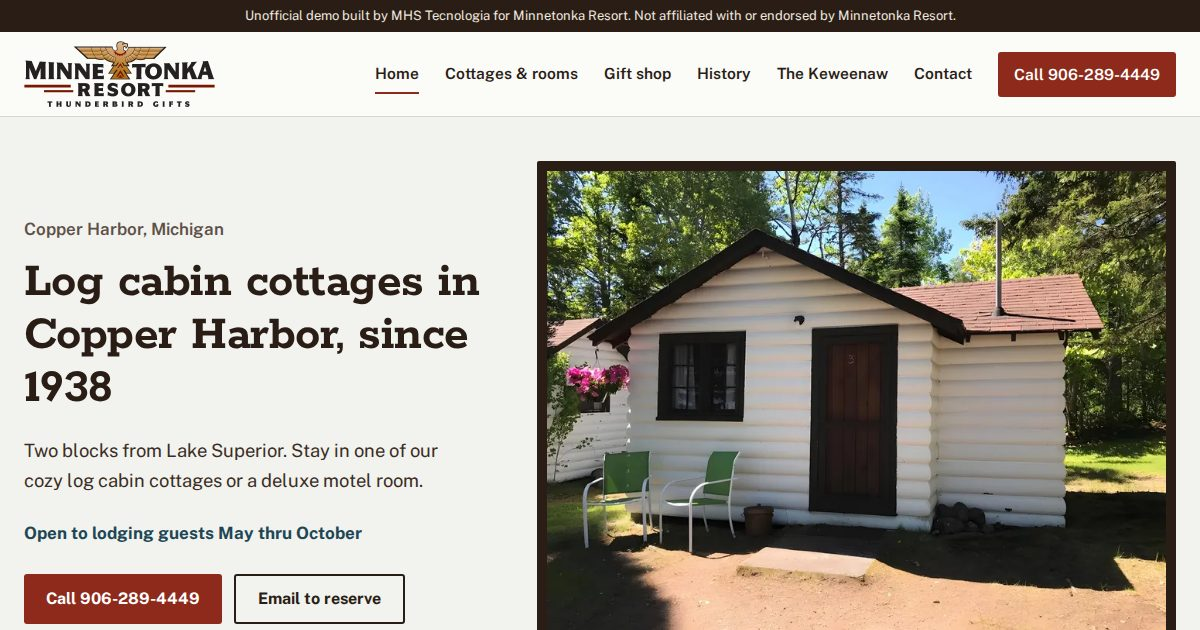
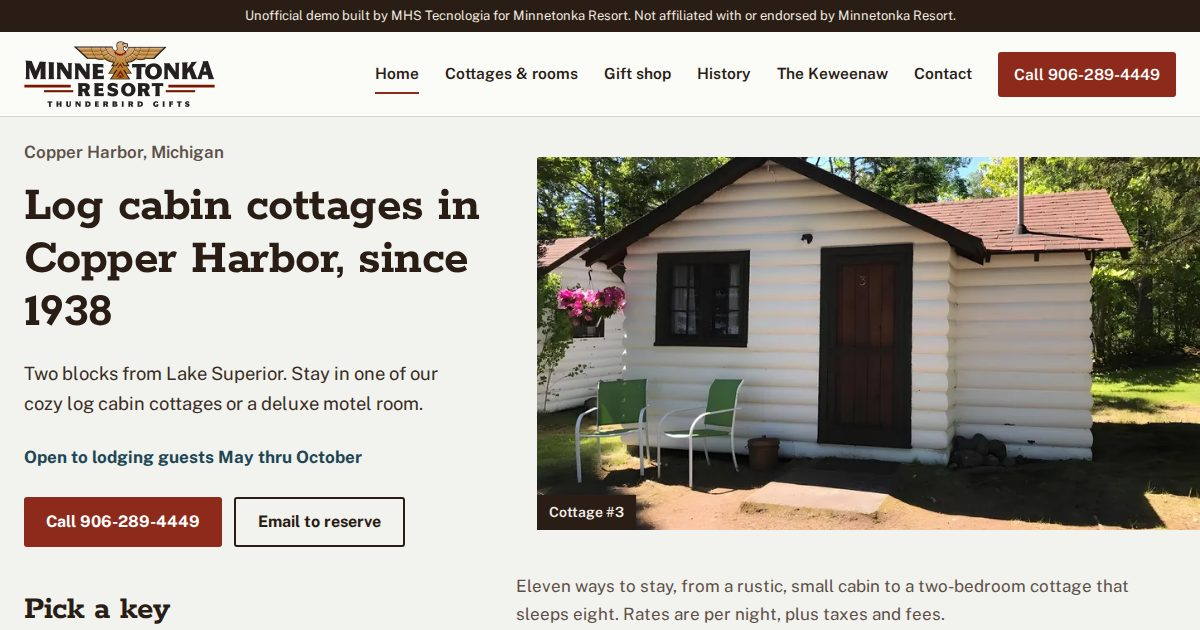
Previews: 142 ativos

diff --git a/minnetonka-resort-copper-harbor-mi/stay.html b/minnetonka-resort-copper-harbor-mi/stay.html
@@ -70,14 +70,14 @@
    <p class="rate">Starting at $125 per night<small>Plus taxes and fees</small></p>
   </div>
   <div class="gal"><figure class="shot"><img src="img/c3-0-1000.webp" srcset="img/c3-0-600.webp 600w, img/c3-0-1000.webp 1000w" sizes="(min-width: 1101px) 520px, (min-width: 960px) 420px, calc(100vw - 32px)" width="1000" height="750" alt="Cottage #3 with flower basket and two green chairs" loading="lazy" decoding="async"></figure><button class="more" type="button" data-open="al-c3">See all 4 photos</button><dialog class="album" id="al-c3" aria-label="Cottage #3 photos"><div class="bar"><h3>Cottage #3</h3><button class="close" type="button">Close</button></div><div class="pics"><img src="img/c3-0-1000.webp" srcset="img/c3-0-600.webp 600w, img/c3-0-1000.webp 1000w" sizes="min(980px, 90vw)" width="1000" height="750" alt="Cottage #3 with flower basket and two green chairs" loading="lazy" decoding="async"><img src="img/c3-1-1000.webp" srcset="img/c3-1-1000.webp 1000w" sizes="min(980px, 90vw)" width="1000" height="750" alt="Cottage #3 double bed with TV and mini fridge" loading="lazy" decoding="async"><img src="img/c3-2-1000.webp" srcset="img/c3-2-1000.webp 1000w" sizes="min(980px, 90vw)" width="1000" height="750" alt="Cottage #3 room with microwave and window" loading="lazy" decoding="async"><img src="img/c3-3-1000.webp" srcset="img/c3-3-1000.webp 1000w" sizes="min(980px, 90vw)" width="1000" height="750" alt="Cottage #3 bed and chair" loading="lazy" decoding="async"></div></dialog></div>
- </article><article class="unit" id="c4">
+ </article><article class="unit np" id="c4">
   <div class="tag"><span class="fob" aria-hidden="true"><span class="ring" aria-hidden="true"></span><span class="hole" aria-hidden="true"></span><span class="kind">Cottage</span> <span class="no">4</span></span></div>
   <div>
    <h2>Cottage #4</h2><p class="sub">Sleeps up to 4 guests.</p>
    <ul><li>2 double beds with bathroom &amp; shower</li><li>Living/dining area with a kitchenette</li></ul>
    <p class="rate">Starting at $155 per night<small>Plus taxes and fees</small></p><p class="notes">Rates based on two person occupancy. Add $10.00 each additional person/night.</p>
   </div>
-  <p class="nophoto">No full-size photos of this one on the resort's site yet. Call and we'll describe it.</p>
+  <div class="keypanel" aria-hidden="true"><div class="peg"></div><span class="fob" aria-hidden="true"><span class="ring" aria-hidden="true"></span><span class="hole" aria-hidden="true"></span><span class="kind">Cottage</span> <span class="no">4</span></span><p><b>Sleeps 4</b><span>from $155</span><small>a night</small></p></div>
  </article><article class="unit" id="c567">
   <div class="tag"><span class="fob" aria-hidden="true"><span class="ring" aria-hidden="true"></span><span class="hole" aria-hidden="true"></span><span class="kind">Cottage</span> <span class="no sm">5–7</span></span></div>
   <div>
@@ -86,22 +86,22 @@
    <p class="rate">Starting at $165 per night<small>Plus taxes and fees</small></p>
   </div>
   <div class="gal"><figure class="shot"><img src="img/c567-0-1000.webp" srcset="img/c567-0-600.webp 600w, img/c567-0-1000.webp 1000w" sizes="(min-width: 1101px) 520px, (min-width: 960px) 420px, calc(100vw - 32px)" width="1000" height="750" alt="Cottage #5, #6 or #7, bedroom with two double beds under quilts" loading="lazy" decoding="async"></figure><button class="more" type="button" data-open="al-c567">See all 8 photos</button><dialog class="album" id="al-c567" aria-label="Cottage #5, #6 or #7 photos"><div class="bar"><h3>Cottage #5, #6 or #7</h3><button class="close" type="button">Close</button></div><div class="pics"><img src="img/c567-0-1000.webp" srcset="img/c567-0-600.webp 600w, img/c567-0-1000.webp 1000w" sizes="min(980px, 90vw)" width="1000" height="750" alt="Cottage #5, #6 or #7, bedroom with two double beds under quilts" loading="lazy" decoding="async"><img src="img/c567-1-1000.webp" srcset="img/c567-1-1000.webp 1000w" sizes="min(980px, 90vw)" width="1000" height="750" alt="Bedroom with log walls and a TV" loading="lazy" decoding="async"><img src="img/c567-2-1000.webp" srcset="img/c567-2-1000.webp 1000w" sizes="min(980px, 90vw)" width="1000" height="750" alt="Kitchenette with refrigerator, looking into the bedrooms" loading="lazy" decoding="async"><img src="img/c567-3-1000.webp" srcset="img/c567-3-1000.webp 1000w" sizes="min(980px, 90vw)" width="1000" height="1333" alt="Refrigerator and dining table" loading="lazy" decoding="async"><img src="img/c567-4-1000.webp" srcset="img/c567-4-1000.webp 1000w" sizes="min(980px, 90vw)" width="1000" height="1333" alt="Gas range in the kitchenette" loading="lazy" decoding="async"><img src="img/c567-5-1000.webp" srcset="img/c567-5-1000.webp 1000w" sizes="min(980px, 90vw)" width="1000" height="1333" alt="Kitchenette sink and stove" loading="lazy" decoding="async"><img src="img/c567-6-1000.webp" srcset="img/c567-6-1000.webp 1000w" sizes="min(980px, 90vw)" width="1000" height="1333" alt="Double bed in the second bedroom" loading="lazy" decoding="async"><img src="img/c567-7-1000.webp" srcset="img/c567-7-1000.webp 1000w" sizes="min(980px, 90vw)" width="1000" height="1333" alt="Doorway between the rooms" loading="lazy" decoding="async"></div></dialog></div>
- </article><article class="unit" id="c89">
+ </article><article class="unit np" id="c89">
   <div class="tag"><span class="fob" aria-hidden="true"><span class="ring" aria-hidden="true"></span><span class="hole" aria-hidden="true"></span><span class="kind">Cottage</span> <span class="no sm">8–9</span></span></div>
   <div>
    <h2>Cottage #8 or #9</h2>
    <ul><li>Double bed and single bed</li><li>In-room coffee</li><li>Bathroom with shower</li></ul>
    <p class="rate">Starting at $135 per night<small>Plus taxes and fees</small></p><p class="notes">No dogs allowed. Add $10.00 for additional person/night.</p>
   </div>
-  <p class="nophoto">No full-size photos of this one on the resort's site yet. Call and we'll describe it.</p>
- </article><article class="unit" id="c10">
+  <div class="keypanel" aria-hidden="true"><div class="peg"></div><span class="fob" aria-hidden="true"><span class="ring" aria-hidden="true"></span><span class="hole" aria-hidden="true"></span><span class="kind">Cottage</span> <span class="no sm">8–9</span></span><p><b>Double + single bed</b><span>from $135</span><small>a night</small></p></div>
+ </article><article class="unit np" id="c10">
   <div class="tag"><span class="fob" aria-hidden="true"><span class="ring" aria-hidden="true"></span><span class="hole" aria-hidden="true"></span><span class="kind">Cottage</span> <span class="no">10</span></span></div>
   <div>
    <h2>Cottage #10</h2><p class="sub">Sleeps up to 8 guests.</p>
    <ul><li>4 Queen beds in 2 bedrooms with bathroom &amp; shower</li><li>Sofa bed in living area, $10 extra</li><li>Living/dining area with a kitchenette</li><li>Large outside deck</li></ul>
    <p class="rate">Starting at $195 per night<small>Plus taxes and fees</small></p>
   </div>
-  <p class="nophoto">No full-size photos of this one on the resort's site yet. Call and we'll describe it.</p>
+  <div class="keypanel" aria-hidden="true"><div class="peg"></div><span class="fob" aria-hidden="true"><span class="ring" aria-hidden="true"></span><span class="hole" aria-hidden="true"></span><span class="kind">Cottage</span> <span class="no">10</span></span><p><b>Sleeps 8</b><span>from $195</span><small>a night</small></p></div>
  </article><article class="unit" id="c11">
   <div class="tag"><span class="fob" aria-hidden="true"><span class="ring" aria-hidden="true"></span><span class="hole" aria-hidden="true"></span><span class="kind">Cottage</span> <span class="no">11</span></span></div>
   <div>
@@ -159,7 +159,7 @@
   </div>
  </div>
 </footer>
-<div class="dock" id="dock"><a class="btn solid" href="tel:+19062894449">Call 906-289-4449</a><a class="btn line" href="mailto:minnetonkareservations@gmail.com?subject=Reservation%20request&body=Check-in%20date%3A%20%0ANumber%20of%20nights%3A%20%0ACottage%20or%20room%3A%20%0AGuests%3A%20">Email</a></div>
+<div class="dock" id="dock"><a class="btn solid" href="tel:+19062894449" aria-label="Call 906-289-4449">Call</a><a class="btn line" href="mailto:minnetonkareservations@gmail.com?subject=Reservation%20request&body=Check-in%20date%3A%20%0ANumber%20of%20nights%3A%20%0ACottage%20or%20room%3A%20%0AGuests%3A%20">Email</a></div>
 <script>
 (function(){
  var d=document.getElementById('dock'),h=document.querySelector('[data-cta]');

diff --git a/minnetonka-resort-copper-harbor-mi/style.css b/minnetonka-resort-copper-harbor-mi/style.css
@@ -62,8 +62,11 @@ p{margin:0 0 1em;max-width:66ch}
 .btn.line:hover{background:var(--trim);color:#fff}
 
 /* home hero */
-.hero{padding:44px 0 52px}
+.hero{padding:22px 0 26px;overflow-x:clip}
 .hero .wrap{display:grid;grid-template-columns:5fr 7fr;gap:56px;align-items:center}
+.bleed{position:relative;margin:0 calc(-1 * (max(0px, (100vw - 1200px) / 2) + var(--gut))) 0 0}
+.bleed img{width:100%;aspect-ratio:16/9;object-fit:cover;object-position:50% 62%;border-radius:2px 0 0 2px}
+.bleed figcaption{position:absolute;left:0;bottom:0;background:var(--trim);color:#F2EDE6;font-size:.875rem;font-weight:600;padding:6px 12px}
 .hero .where{font-weight:600;color:var(--muted);margin-bottom:14px}
 .hero h1{margin-bottom:20px}
 .hero .lede{font-size:1.15rem;color:#3b2d25}
@@ -73,8 +76,9 @@ p{margin:0 0 1em;max-width:66ch}
 .frame figcaption{color:#E9E1D8;font-size:.875rem;padding:9px 4px 1px}
 
 /* the key rail */
-.keys{padding:8px 0 64px}
-.keys .intro{display:flex;justify-content:space-between;align-items:end;gap:32px;margin-bottom:26px}
+.keys{padding:0 0 64px}
+.keys .intro{display:flex;justify-content:space-between;align-items:end;gap:32px;margin-bottom:16px}
+.keys h2{font-size:2.1rem}
 .keys .intro p{margin:0;color:var(--muted)}
 .rail{list-style:none;margin:0;padding:0;display:grid;grid-template-columns:repeat(11,1fr)}
 .rail li{position:relative;padding-top:54px;text-align:center}
@@ -113,6 +117,7 @@ a.fob:hover::before{background:linear-gradient(155deg,#BF4A33,#9C2F1E 52%,var(--
 .wide figcaption{font-size:.875rem;color:var(--muted);margin-top:8px}
 .wide.full{max-width:none}
 .wide.full img{aspect-ratio:1000/369;object-fit:cover}
+.wide.gc figcaption{margin-top:10px}
 .wide.side{max-width:none;display:grid;grid-template-columns:minmax(0,1000px) 1fr;gap:24px;align-items:end}
 .wide.side figcaption{margin:0}
 .textlink{font-weight:700}
@@ -155,6 +160,18 @@ a.fob:hover::before{background:linear-gradient(155deg,#BF4A33,#9C2F1E 52%,var(--
 .unit .shot img{width:100%;border-radius:2px}
 .more{margin-top:10px;font:inherit;font-weight:700;background:none;border:2px solid var(--trim);color:var(--trim);border-radius:3px;min-height:44px;padding:0 16px;cursor:pointer}
 .more:hover{background:var(--trim);color:#fff}
+.keypanel{position:relative;background:var(--paper);border:1px solid var(--line);padding:0 28px 26px;display:flex;align-items:flex-end;gap:28px;min-height:260px}
+.keypanel::before{content:"";position:absolute;left:0;right:0;top:0;height:34px;background:linear-gradient(180deg,rgba(255,255,255,.18),rgba(0,0,0,0) 40%,rgba(0,0,0,.22)),var(--pine)}
+.keypanel .peg{position:absolute;top:11px;left:82px;width:12px;height:12px;border-radius:50%;background:radial-gradient(circle at 35% 35%,#F3DD9C,var(--brass) 55%,#7d6024);box-shadow:0 2px 2px rgba(0,0,0,.35);z-index:1}
+.keypanel .fob{width:120px;height:188px;padding-top:50px;margin-top:66px;animation:none;transform-origin:50% -36px}
+.keypanel .fob .ring{top:-37px;height:48px}
+.keypanel .fob .no{font-size:3.3rem;height:3.6rem}
+.keypanel .fob .no.sm{font-size:2.1rem}
+.keypanel .fob .kind{font-size:.8125rem}
+.keypanel p{margin:0 0 6px;font-size:1rem;color:var(--muted)}
+.keypanel p b{display:block;font-family:Rokkitt,Georgia,serif;font-size:2rem;line-height:1.1;color:var(--trim)}
+.keypanel p span{display:block;font-family:Rokkitt,Georgia,serif;font-size:1.6rem;font-weight:700;color:var(--bird)}
+.unit.np .tag{visibility:hidden}
 .nophoto{font-size:.9375rem;color:var(--muted);border:1px dashed var(--line);padding:18px;margin:0}
 dialog.album{border:0;padding:0;margin:auto;width:min(1000px,94vw);max-height:92vh;background:var(--trim);color:#fff;border-radius:3px}
 dialog.album::backdrop{background:rgba(20,14,10,.82)}
@@ -214,7 +231,20 @@ dialog.album::backdrop{background:rgba(20,14,10,.82)}
   .menu{display:block}
   .top .wrap{min-height:70px}
   .brand img{width:150px;height:52px}
-  .hero{padding:26px 0 40px}
+  .hero{padding:20px 0 34px}
+  .bleed{margin:0 calc(-1 * var(--gut))}
+  .bleed img{aspect-ratio:780/676;border-radius:0}
+  .demo{font-size:.78rem;letter-spacing:-.005em}
+  .demo p{padding:0 10px}
+  .wide.gc{margin-left:calc(-1 * var(--gut));margin-right:calc(-1 * var(--gut))}
+  .wide.gc img{aspect-ratio:16/10;object-position:62% 50%;border-radius:0}
+  .wide.gc figcaption{padding:0 var(--gut)}
+  .unit.np{grid-template-columns:1fr}
+  .unit.np .tag{display:none}
+  .keypanel{min-height:0;padding:0 18px 20px;gap:20px}
+  .keypanel .peg{left:62px}
+  .keypanel .fob{width:100px;height:158px;padding-top:42px}
+  .keypanel .fob .no{font-size:2.7rem;height:3rem}
   .hero .wrap{grid-template-columns:1fr;gap:22px}
   .hero h1{font-size:2.3rem;margin-bottom:12px}
   .hero .where{margin-bottom:8px;font-size:.95rem}
@@ -224,7 +254,8 @@ dialog.album::backdrop{background:rgba(20,14,10,.82)}
   .frame{padding:6px}
   .keys .intro{display:block}
   .keys .intro p{margin-top:10px}
-  .rail{grid-template-columns:repeat(4,1fr)}
+  .rail{display:flex;overflow-x:auto;scroll-snap-type:x mandatory;margin:0 calc(-1 * var(--gut));padding:0 var(--gut) 8px;scroll-padding:0 var(--gut);scrollbar-width:thin;overscroll-behavior-x:contain}
+  .rail li{flex:0 0 104px;scroll-snap-align:start}
   .rail .info{font-size:.75rem}
   .grounds .cols,.light .wrap,.twocol,.lists,.policies{grid-template-columns:1fr;gap:32px}
   .unit{grid-template-columns:84px 1fr;gap:18px 18px}
@@ -242,13 +273,7 @@ dialog.album::backdrop{background:rgba(20,14,10,.82)}
   body.has-dock{padding-bottom:72px}
   .dock{display:flex;gap:10px;position:fixed;left:0;right:0;bottom:0;z-index:40;padding:10px 16px calc(10px + env(safe-area-inset-bottom));background:rgba(251,251,248,.97);border-top:1px solid var(--line);transform:translateY(110%);transition:transform .25s ease}
   .dock.on{transform:none}
-  .dock .btn{flex:1;min-height:48px}
-}
-@media (max-width:440px){
-  .fob{width:76px;height:120px;padding-top:30px}
-  .fob .no{font-size:2.05rem;height:2.4rem}
-  .fob .no.sm{font-size:1.3rem}
-  .fob .kind{font-size:.625rem}
+  .dock .btn{flex:1;min-height:48px;white-space:nowrap;padding:0 12px}
 }
 @media (prefers-reduced-motion:reduce){
   .dock{transition:none}

diff --git a/minnetonka-resort-copper-harbor-mi/index.html b/minnetonka-resort-copper-harbor-mi/index.html
@@ -11,8 +11,8 @@
 <link rel="apple-touch-icon" href="apple-touch-icon.png">
 <link rel="preload" href="fonts/rokkitt.woff2" as="font" type="font/woff2" crossorigin>
 <link rel="preload" href="fonts/publicsans.woff2" as="font" type="font/woff2" crossorigin>
-<link rel="preload" as="image" type="image/webp" media="(max-width: 959px)" imagesrcset="img/hero-m-440.webp 440w, img/hero-m-780.webp 780w" imagesizes="calc(100vw - 44px)">
-<link rel="preload" as="image" type="image/webp" media="(min-width: 960px)" imagesrcset="img/hero-800.webp 800w, img/hero-1200.webp 1200w, img/hero-1600.webp 1600w" imagesizes="(min-width: 1248px) 619px, calc((100vw - 104px) * 7 / 12 - 20px)">
+<link rel="preload" as="image" type="image/webp" media="(max-width: 959px)" imagesrcset="img/hero-m-440.webp 440w, img/hero-m-780.webp 780w" imagesizes="100vw">
+<link rel="preload" as="image" type="image/webp" media="(min-width: 960px)" imagesrcset="img/hero-800.webp 800w, img/hero-1200.webp 1200w, img/hero-1600.webp 1600w" imagesizes="(min-width: 1248px) calc(663px + (100vw - 1200px) / 2), (min-width: 960px) calc((100vw - 104px) * 7 / 12 + 24px), 100vw">
 <link rel="stylesheet" href="style.css">
 <meta property="og:type" content="website">
 <meta property="og:title" content="Minnetonka Resort | Log cabin cottages in Copper Harbor, Michigan">
@@ -46,7 +46,7 @@
    <span class="season">Open to lodging guests May thru October</span>
    <div class="btns" data-cta><a class="btn solid" href="tel:+19062894449">Call 906-289-4449</a><a class="btn line" href="mailto:minnetonkareservations@gmail.com?subject=Reservation%20request&body=Check-in%20date%3A%20%0ANumber%20of%20nights%3A%20%0ACottage%20or%20room%3A%20%0AGuests%3A%20">Email to reserve</a></div>
   </div>
-  <figure class="frame"><picture><source media="(max-width: 959px)" srcset="img/hero-m-440.webp 440w, img/hero-m-780.webp 780w" sizes="calc(100vw - 44px)" width="780" height="676"><img src="img/hero-1600.webp" srcset="img/hero-800.webp 800w, img/hero-1200.webp 1200w, img/hero-1600.webp 1600w" sizes="(min-width: 1248px) 619px, calc((100vw - 104px) * 7 / 12 - 20px)" width="1600" height="1200" alt="Cottage #3: white log walls, dark trim, the number 3 on the door, two green chairs out front" fetchpriority="high"></picture><figcaption>Cottage #3</figcaption></figure>
+  <figure class="bleed"><picture><source media="(max-width: 959px)" srcset="img/hero-m-440.webp 440w, img/hero-m-780.webp 780w" sizes="100vw" width="780" height="676"><img src="img/hero-1600.webp" srcset="img/hero-800.webp 800w, img/hero-1200.webp 1200w, img/hero-1600.webp 1600w" sizes="(min-width: 1248px) calc(663px + (100vw - 1200px) / 2), (min-width: 960px) calc((100vw - 104px) * 7 / 12 + 24px), 100vw" width="1600" height="1200" alt="Cottage #3: white log walls, dark trim, the number 3 on the door, two green chairs out front" fetchpriority="high"></picture><figcaption>Cottage #3</figcaption></figure>
  </div>
 </section>
 
@@ -84,7 +84,7 @@
     <p>Our family hosts Spirit of the North Wellness Center. Located on the main grounds, the center offers massage and wellness treatments, yoga, lectures and workshops.</p>
    </div>
   </div>
-  <figure class="wide side" style="margin-top:44px"><img src="img/gift-center-1000.webp" srcset="img/gift-center-1000.webp 1000w" sizes="(min-width: 1048px) 1000px, calc(100vw - 32px)" width="1000" height="369" alt="The Gift Center building with the Minnetonka sign, white clapboard under tall pines" loading="lazy" decoding="async"><figcaption>The gift center and the Minnetonka sign on Gratiot Street</figcaption></figure>
+  <figure class="wide full gc" style="margin-top:44px"><img src="img/gift-center-1000.webp" srcset="img/gift-center-1000.webp 1000w" sizes="(min-width: 1200px) 1152px, calc(100vw - 32px)" width="1000" height="369" alt="The Gift Center building with the Minnetonka sign, white clapboard under tall pines" loading="lazy" decoding="async"><figcaption>The gift center and the Minnetonka sign on Gratiot Street</figcaption></figure>
  </div>
 </section>
 
@@ -117,7 +117,7 @@
   </div>
  </div>
 </footer>
-<div class="dock" id="dock"><a class="btn solid" href="tel:+19062894449">Call 906-289-4449</a><a class="btn line" href="mailto:minnetonkareservations@gmail.com?subject=Reservation%20request&body=Check-in%20date%3A%20%0ANumber%20of%20nights%3A%20%0ACottage%20or%20room%3A%20%0AGuests%3A%20">Email</a></div>
+<div class="dock" id="dock"><a class="btn solid" href="tel:+19062894449" aria-label="Call 906-289-4449">Call</a><a class="btn line" href="mailto:minnetonkareservations@gmail.com?subject=Reservation%20request&body=Check-in%20date%3A%20%0ANumber%20of%20nights%3A%20%0ACottage%20or%20room%3A%20%0AGuests%3A%20">Email</a></div>
 <script>
 (function(){
  var d=document.getElementById('dock'),h=document.querySelector('[data-cta]');

diff --git a/minnetonka-resort-copper-harbor-mi/contact.html b/minnetonka-resort-copper-harbor-mi/contact.html
@@ -72,7 +72,7 @@
   </div>
  </div>
 </footer>
-<div class="dock" id="dock"><a class="btn solid" href="tel:+19062894449">Call 906-289-4449</a><a class="btn line" href="mailto:minnetonkareservations@gmail.com?subject=Reservation%20request&body=Check-in%20date%3A%20%0ANumber%20of%20nights%3A%20%0ACottage%20or%20room%3A%20%0AGuests%3A%20">Email</a></div>
+<div class="dock" id="dock"><a class="btn solid" href="tel:+19062894449" aria-label="Call 906-289-4449">Call</a><a class="btn line" href="mailto:minnetonkareservations@gmail.com?subject=Reservation%20request&body=Check-in%20date%3A%20%0ANumber%20of%20nights%3A%20%0ACottage%20or%20room%3A%20%0AGuests%3A%20">Email</a></div>
 <script>
 (function(){
  var d=document.getElementById('dock'),h=document.querySelector('[data-cta]');

diff --git a/minnetonka-resort-copper-harbor-mi/gift-shop.html b/minnetonka-resort-copper-harbor-mi/gift-shop.html
@@ -65,7 +65,7 @@
   </div>
  </div>
 </footer>
-<div class="dock" id="dock"><a class="btn solid" href="tel:+19062894449">Call 906-289-4449</a><a class="btn line" href="mailto:minnetonkareservations@gmail.com?subject=Reservation%20request&body=Check-in%20date%3A%20%0ANumber%20of%20nights%3A%20%0ACottage%20or%20room%3A%20%0AGuests%3A%20">Email</a></div>
+<div class="dock" id="dock"><a class="btn solid" href="tel:+19062894449" aria-label="Call 906-289-4449">Call</a><a class="btn line" href="mailto:minnetonkareservations@gmail.com?subject=Reservation%20request&body=Check-in%20date%3A%20%0ANumber%20of%20nights%3A%20%0ACottage%20or%20room%3A%20%0AGuests%3A%20">Email</a></div>
 <script>
 (function(){
  var d=document.getElementById('dock'),h=document.querySelector('[data-cta]');

diff --git a/minnetonka-resort-copper-harbor-mi/history.html b/minnetonka-resort-copper-harbor-mi/history.html
@@ -66,7 +66,7 @@
   </div>
  </div>
 </footer>
-<div class="dock" id="dock"><a class="btn solid" href="tel:+19062894449">Call 906-289-4449</a><a class="btn line" href="mailto:minnetonkareservations@gmail.com?subject=Reservation%20request&body=Check-in%20date%3A%20%0ANumber%20of%20nights%3A%20%0ACottage%20or%20room%3A%20%0AGuests%3A%20">Email</a></div>
+<div class="dock" id="dock"><a class="btn solid" href="tel:+19062894449" aria-label="Call 906-289-4449">Call</a><a class="btn line" href="mailto:minnetonkareservations@gmail.com?subject=Reservation%20request&body=Check-in%20date%3A%20%0ANumber%20of%20nights%3A%20%0ACottage%20or%20room%3A%20%0AGuests%3A%20">Email</a></div>
 <script>
 (function(){
  var d=document.getElementById('dock'),h=document.querySelector('[data-cta]');

diff --git a/minnetonka-resort-copper-harbor-mi/keweenaw.html b/minnetonka-resort-copper-harbor-mi/keweenaw.html
@@ -60,7 +60,7 @@
   </div>
  </div>
 </footer>
-<div class="dock" id="dock"><a class="btn solid" href="tel:+19062894449">Call 906-289-4449</a><a class="btn line" href="mailto:minnetonkareservations@gmail.com?subject=Reservation%20request&body=Check-in%20date%3A%20%0ANumber%20of%20nights%3A%20%0ACottage%20or%20room%3A%20%0AGuests%3A%20">Email</a></div>
+<div class="dock" id="dock"><a class="btn solid" href="tel:+19062894449" aria-label="Call 906-289-4449">Call</a><a class="btn line" href="mailto:minnetonkareservations@gmail.com?subject=Reservation%20request&body=Check-in%20date%3A%20%0ANumber%20of%20nights%3A%20%0ACottage%20or%20room%3A%20%0AGuests%3A%20">Email</a></div>
 <script>
 (function(){
  var d=document.getElementById('dock'),h=document.querySelector('[data-cta]');
